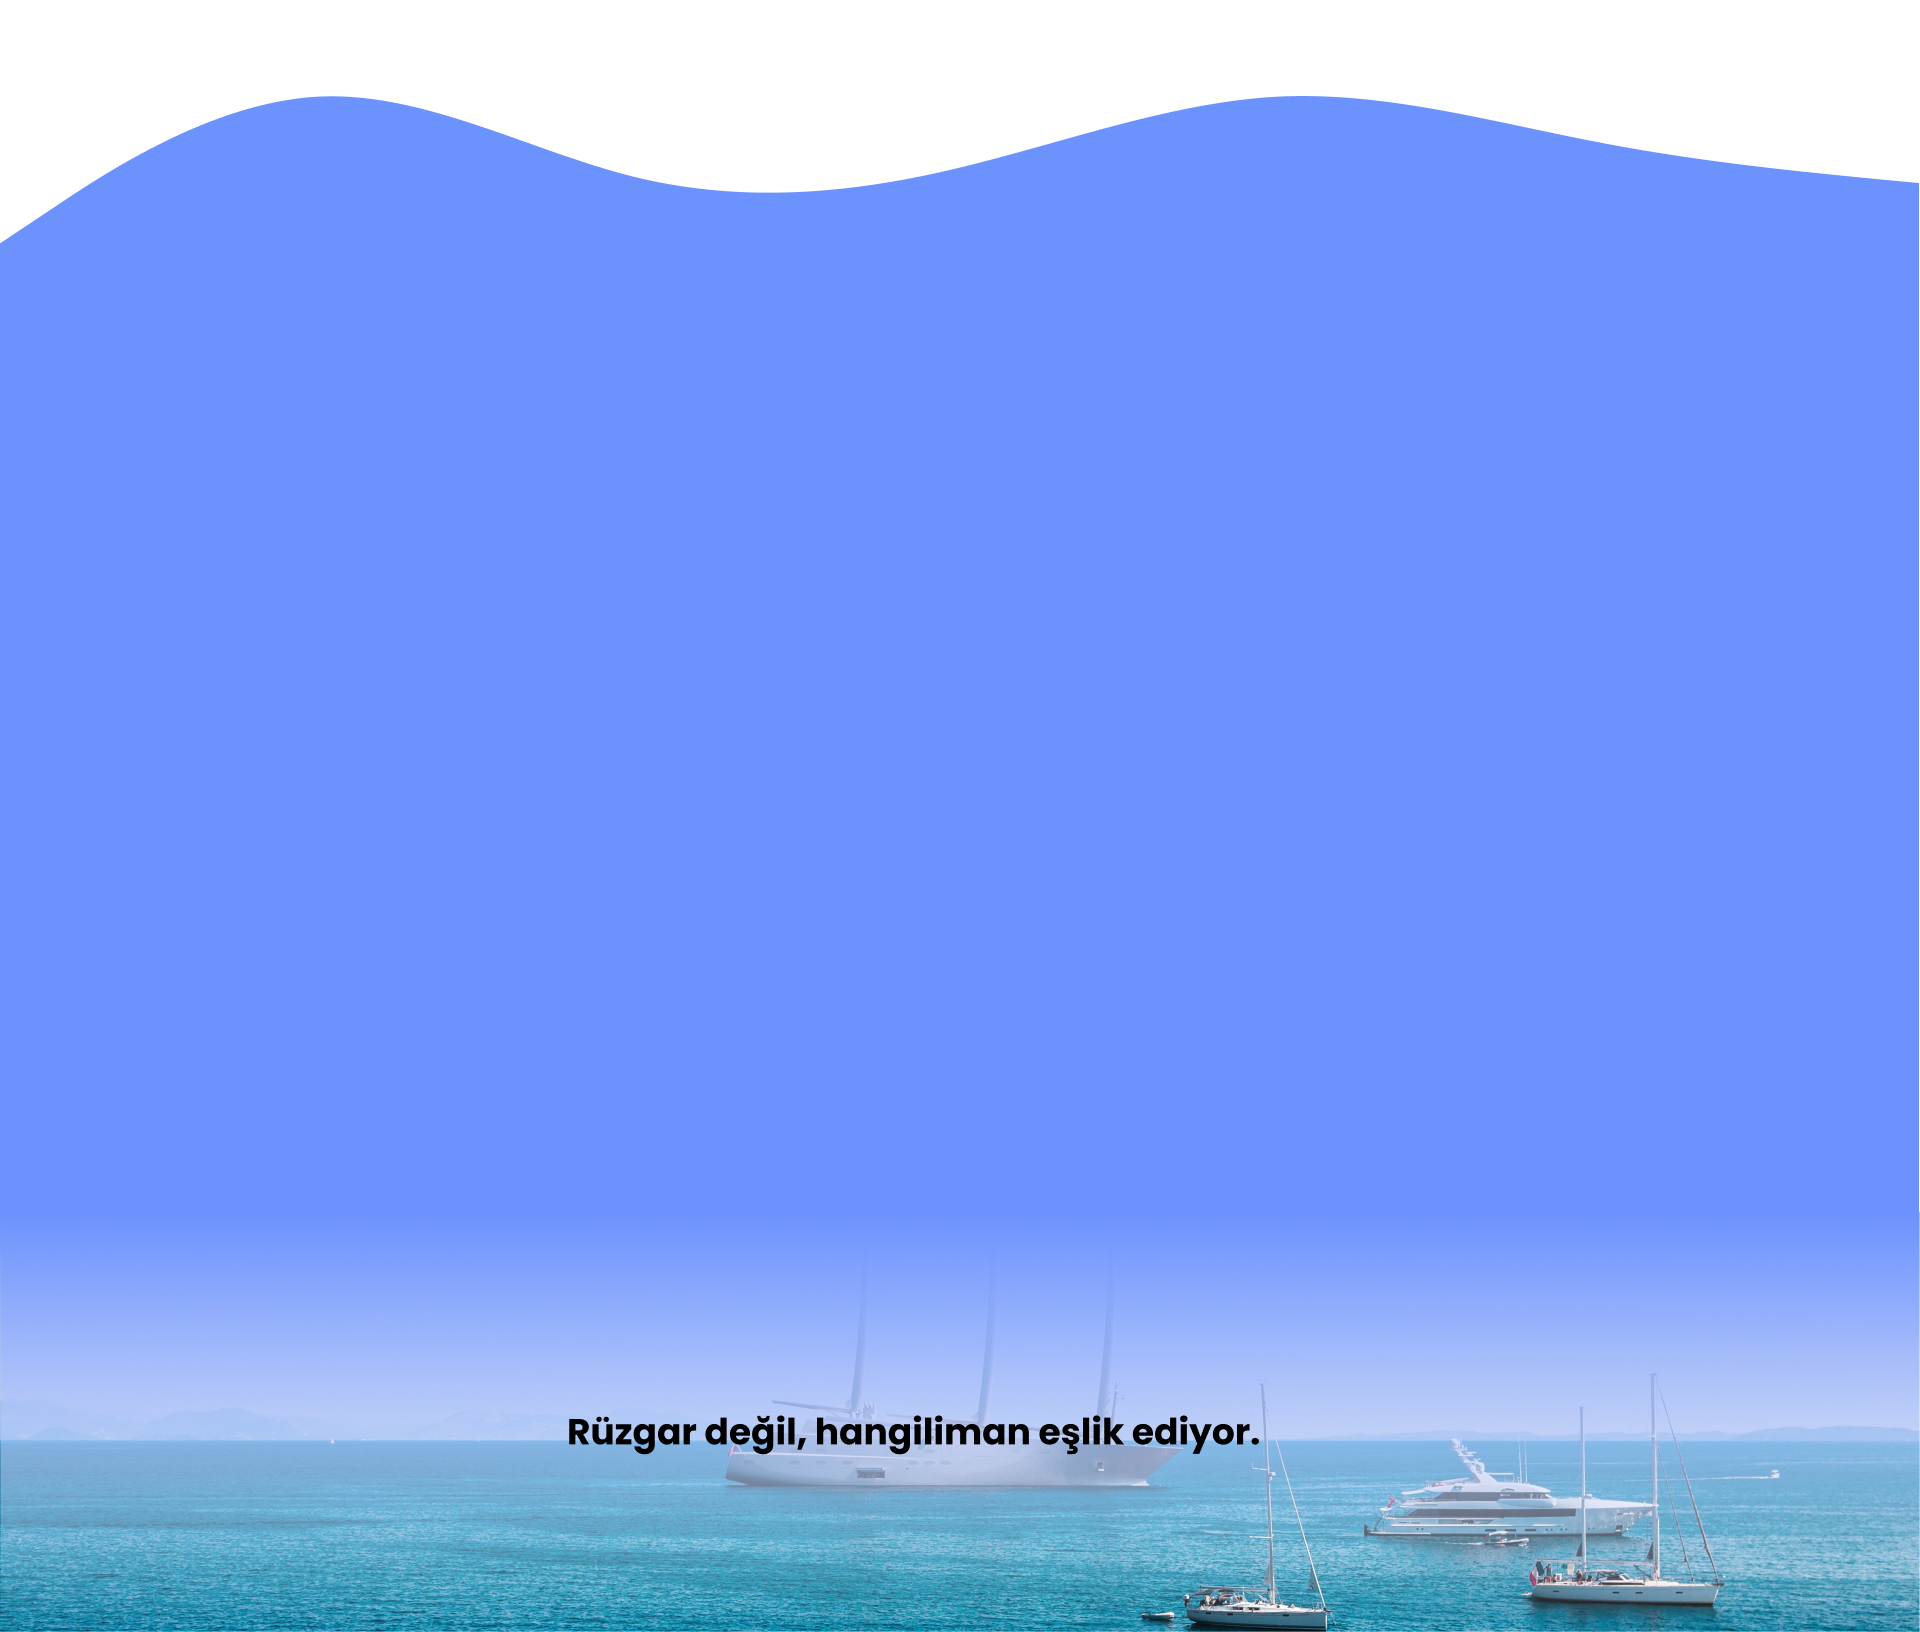
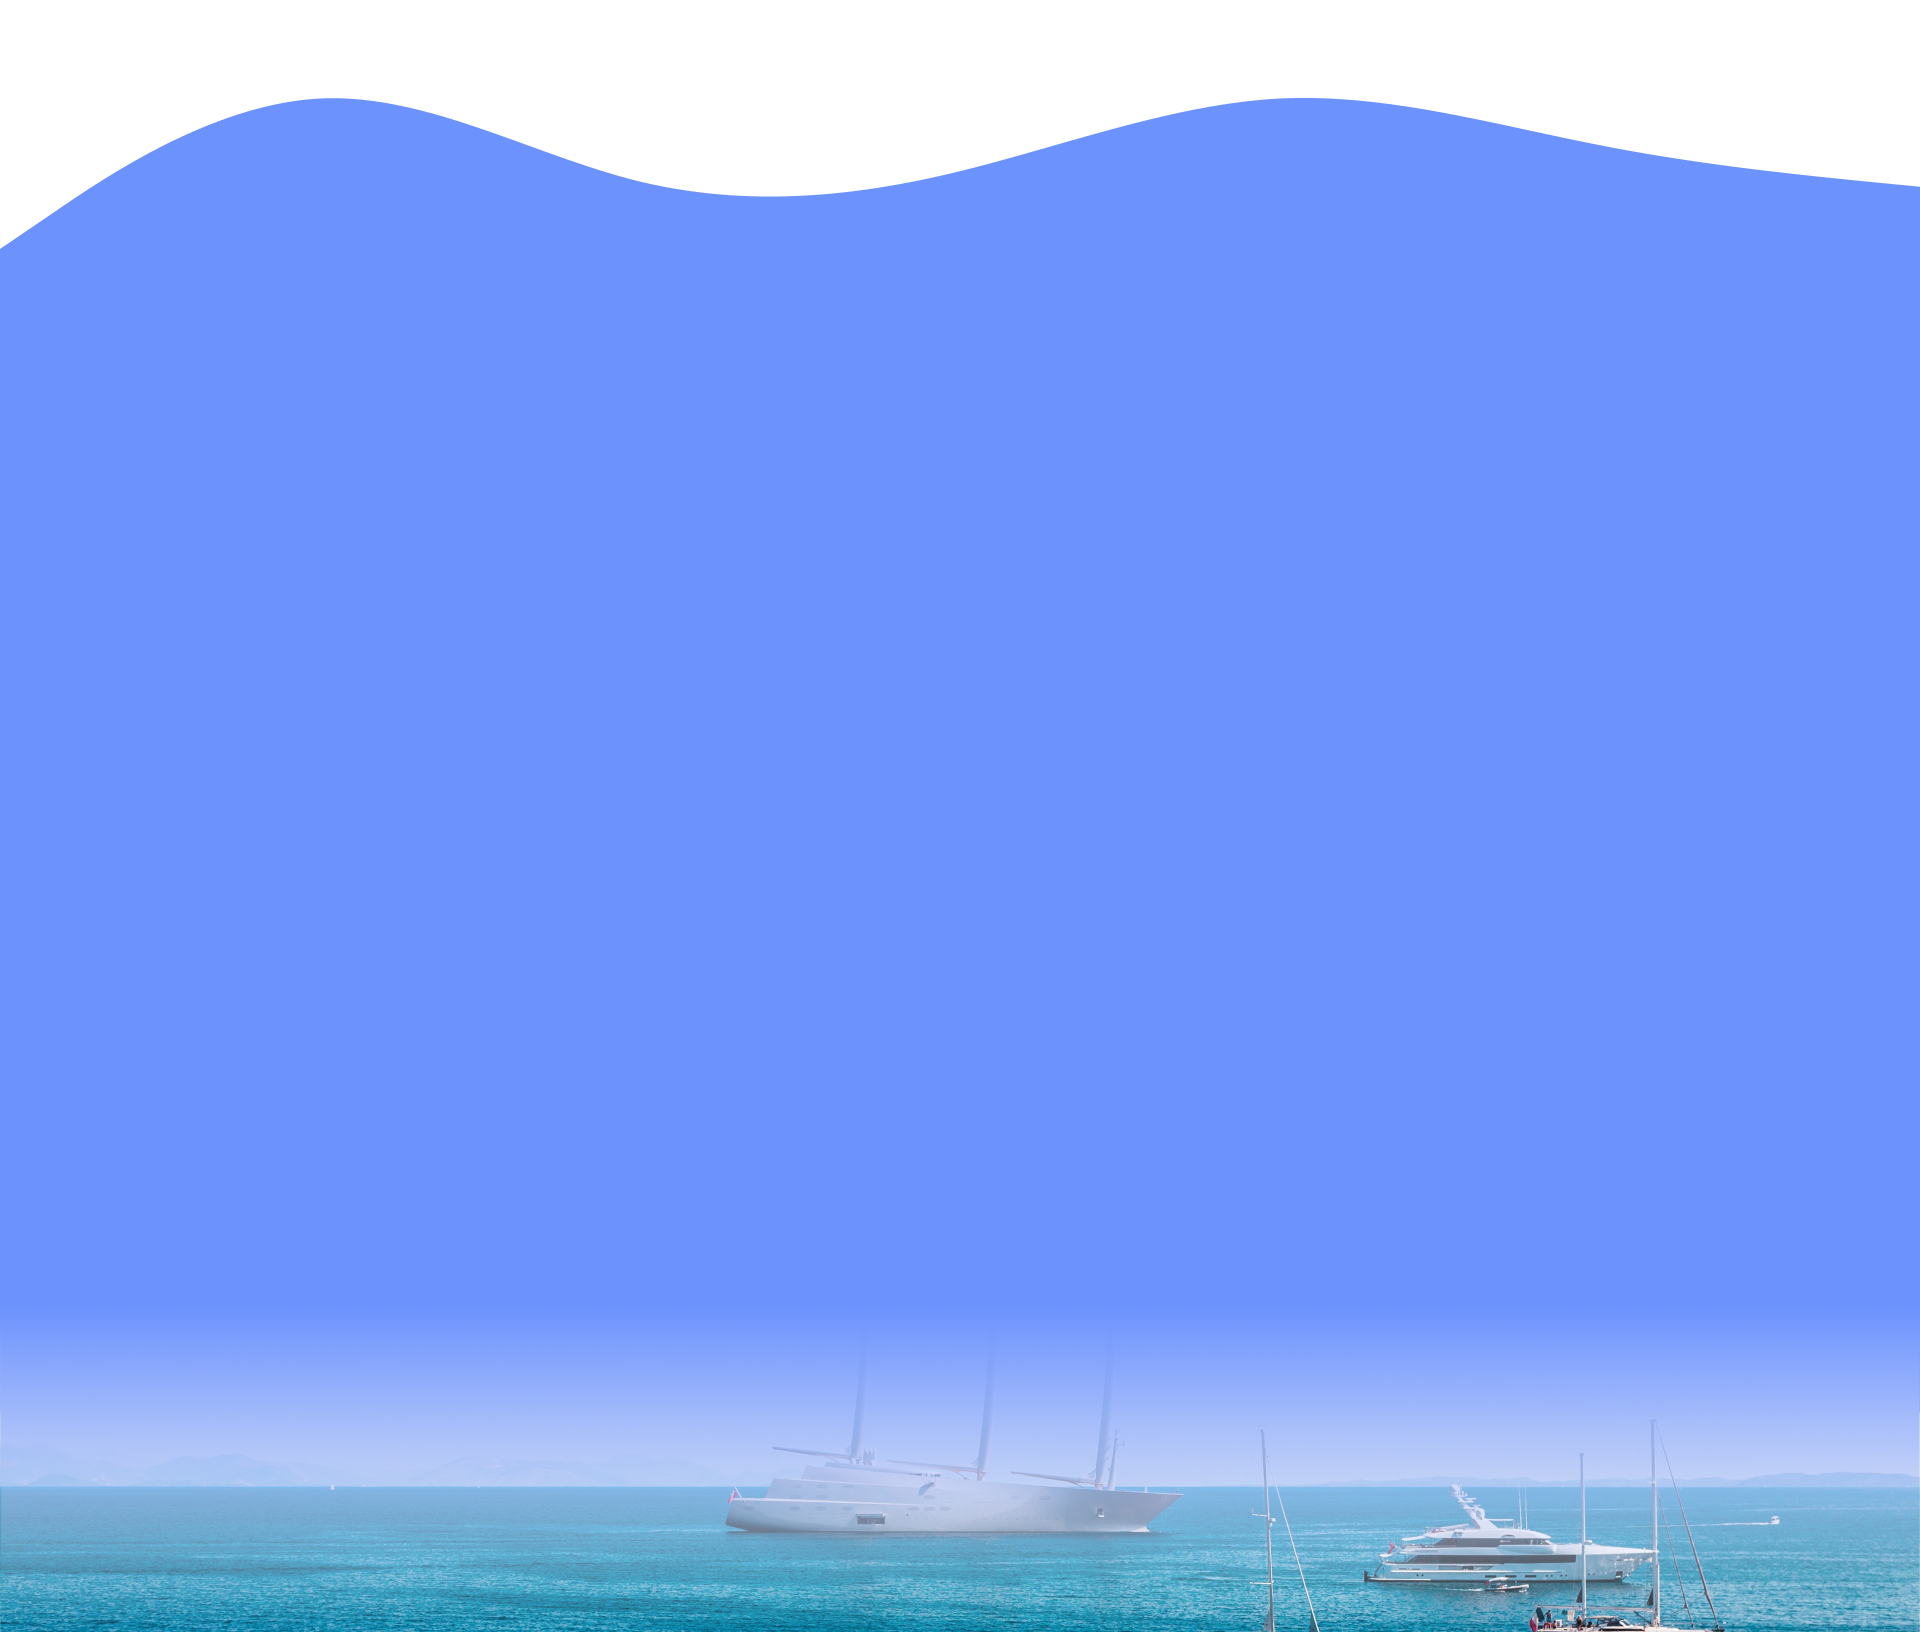
mobile entegrations 2

Changed region(s): [[0.0, 0.7812, 1.0, 1.0], [0.0, 0.125, 0.0312, 0.1562]]

diff --git a/src/App.css b/src/App.css
@@ -808,7 +808,17 @@ input {
     margin: 2rem 0 0 42rem;
   }
 }
-
+@media only screen and (max-width:1080px){
+  .captain-ship {
+    position: absolute;
+    z-index: 1;
+    width: 25rem;
+    left: -7rem;
+  }
+  .popular-ports {
+    padding-top: 7rem;
+  }
+}
 @media only screen and (max-width:950px) {
   .select-boxes {
     margin: 0;
@@ -891,7 +901,7 @@ input {
   }
   #part2 {
     flex-direction: column;
-    height: 1400px;
+    height: 125vh;
   }
   #rudder-box {
     display: none;
@@ -927,8 +937,8 @@ input {
   #part2 {
     flex-direction: column;
     align-items: center;
-    justify-content: center;
-    height: 200vh;
+    justify-content: space-around;
+    height: 160vh;
   }
 }
 
